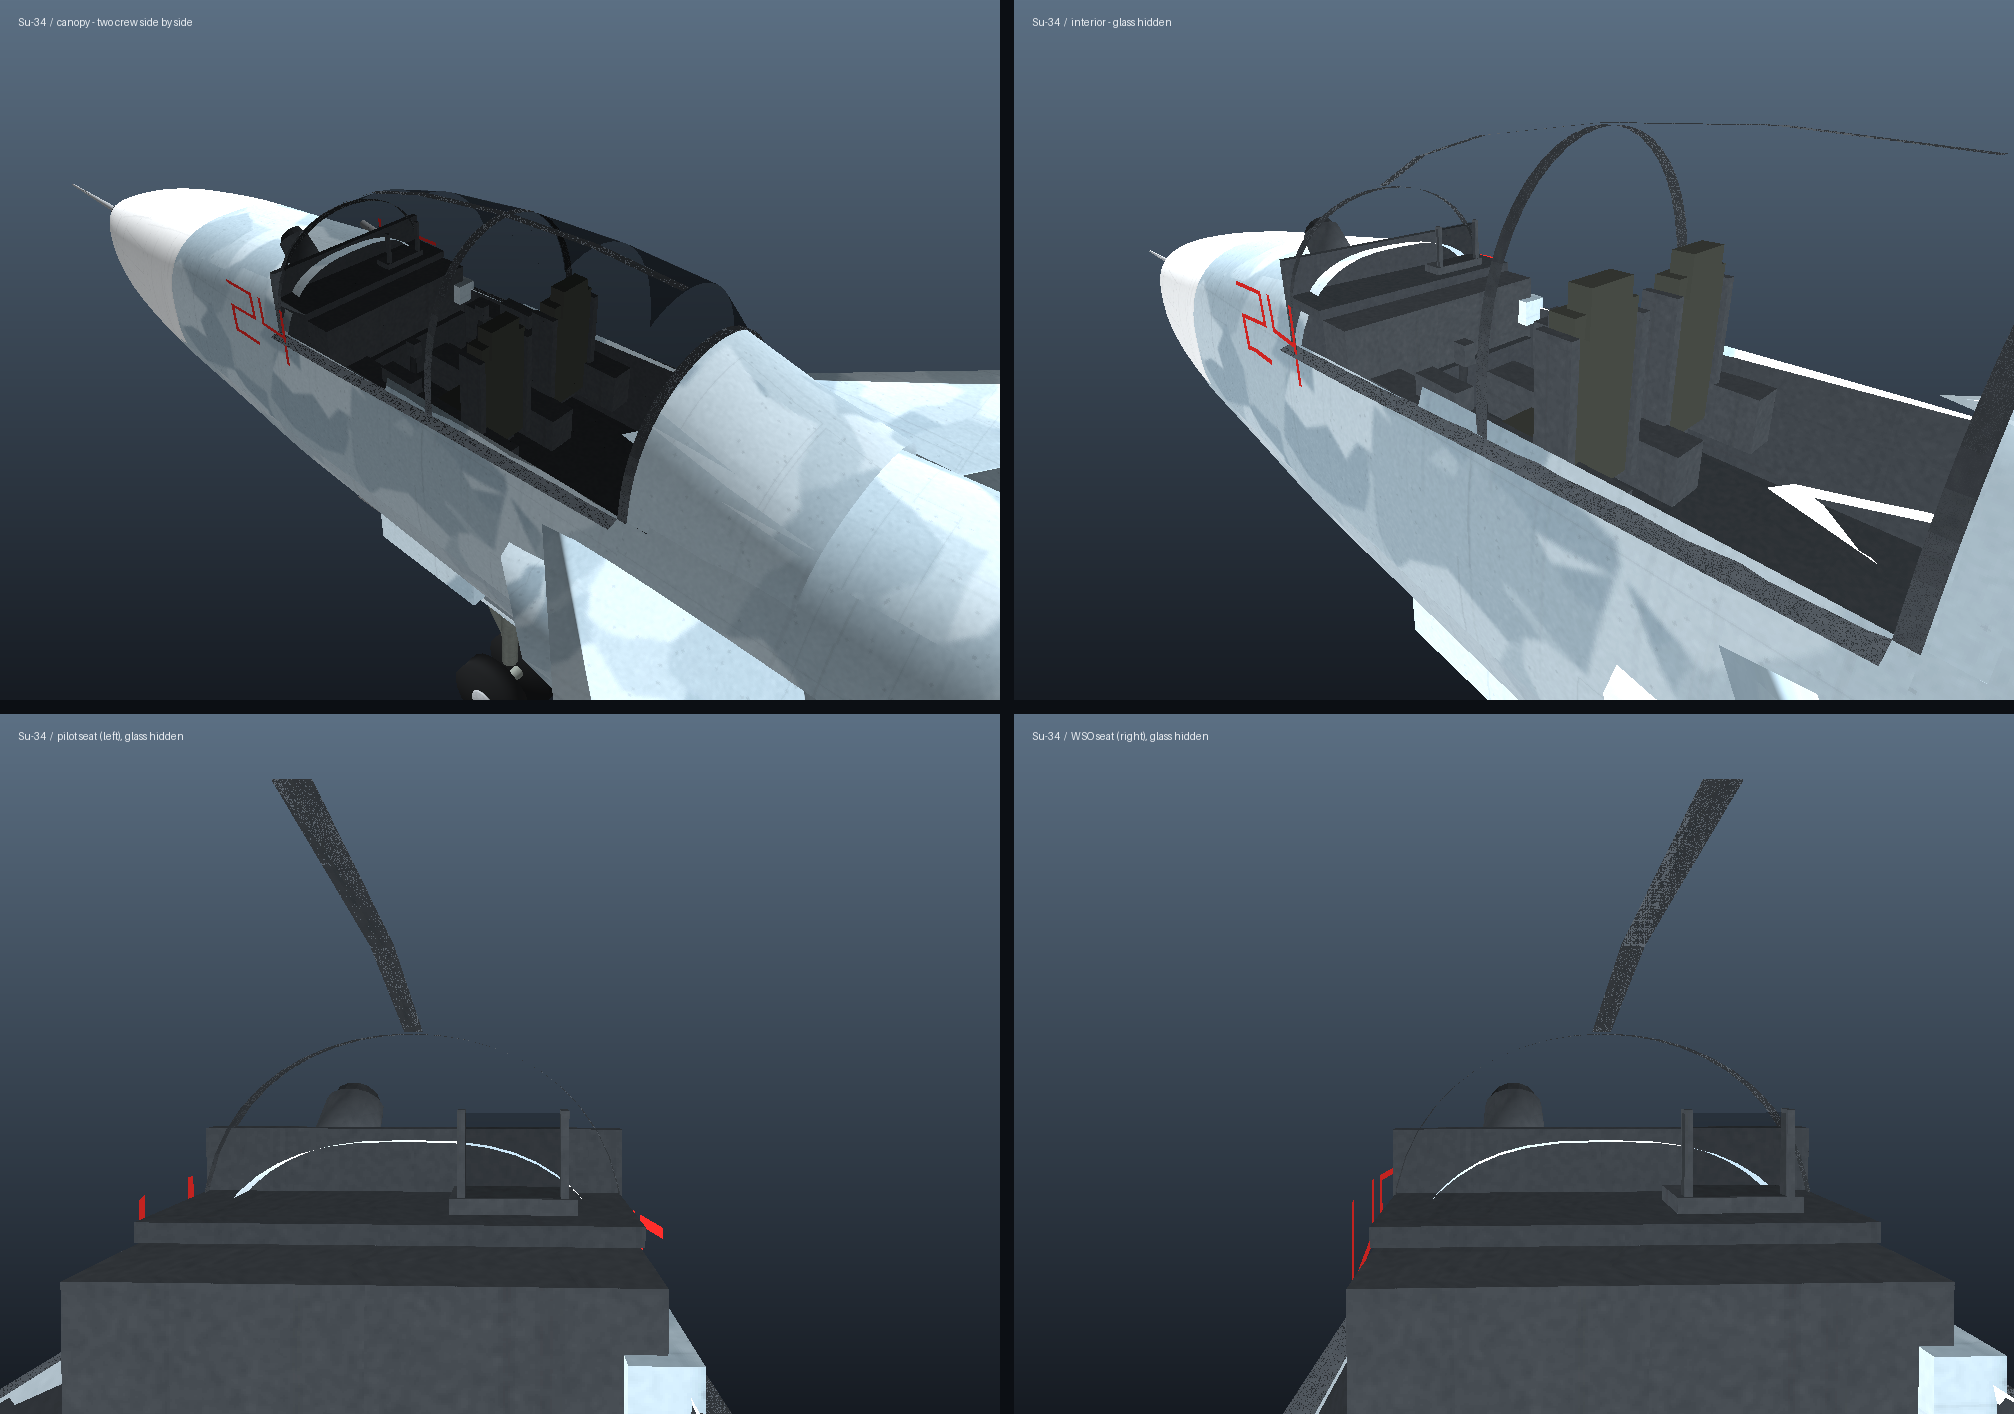
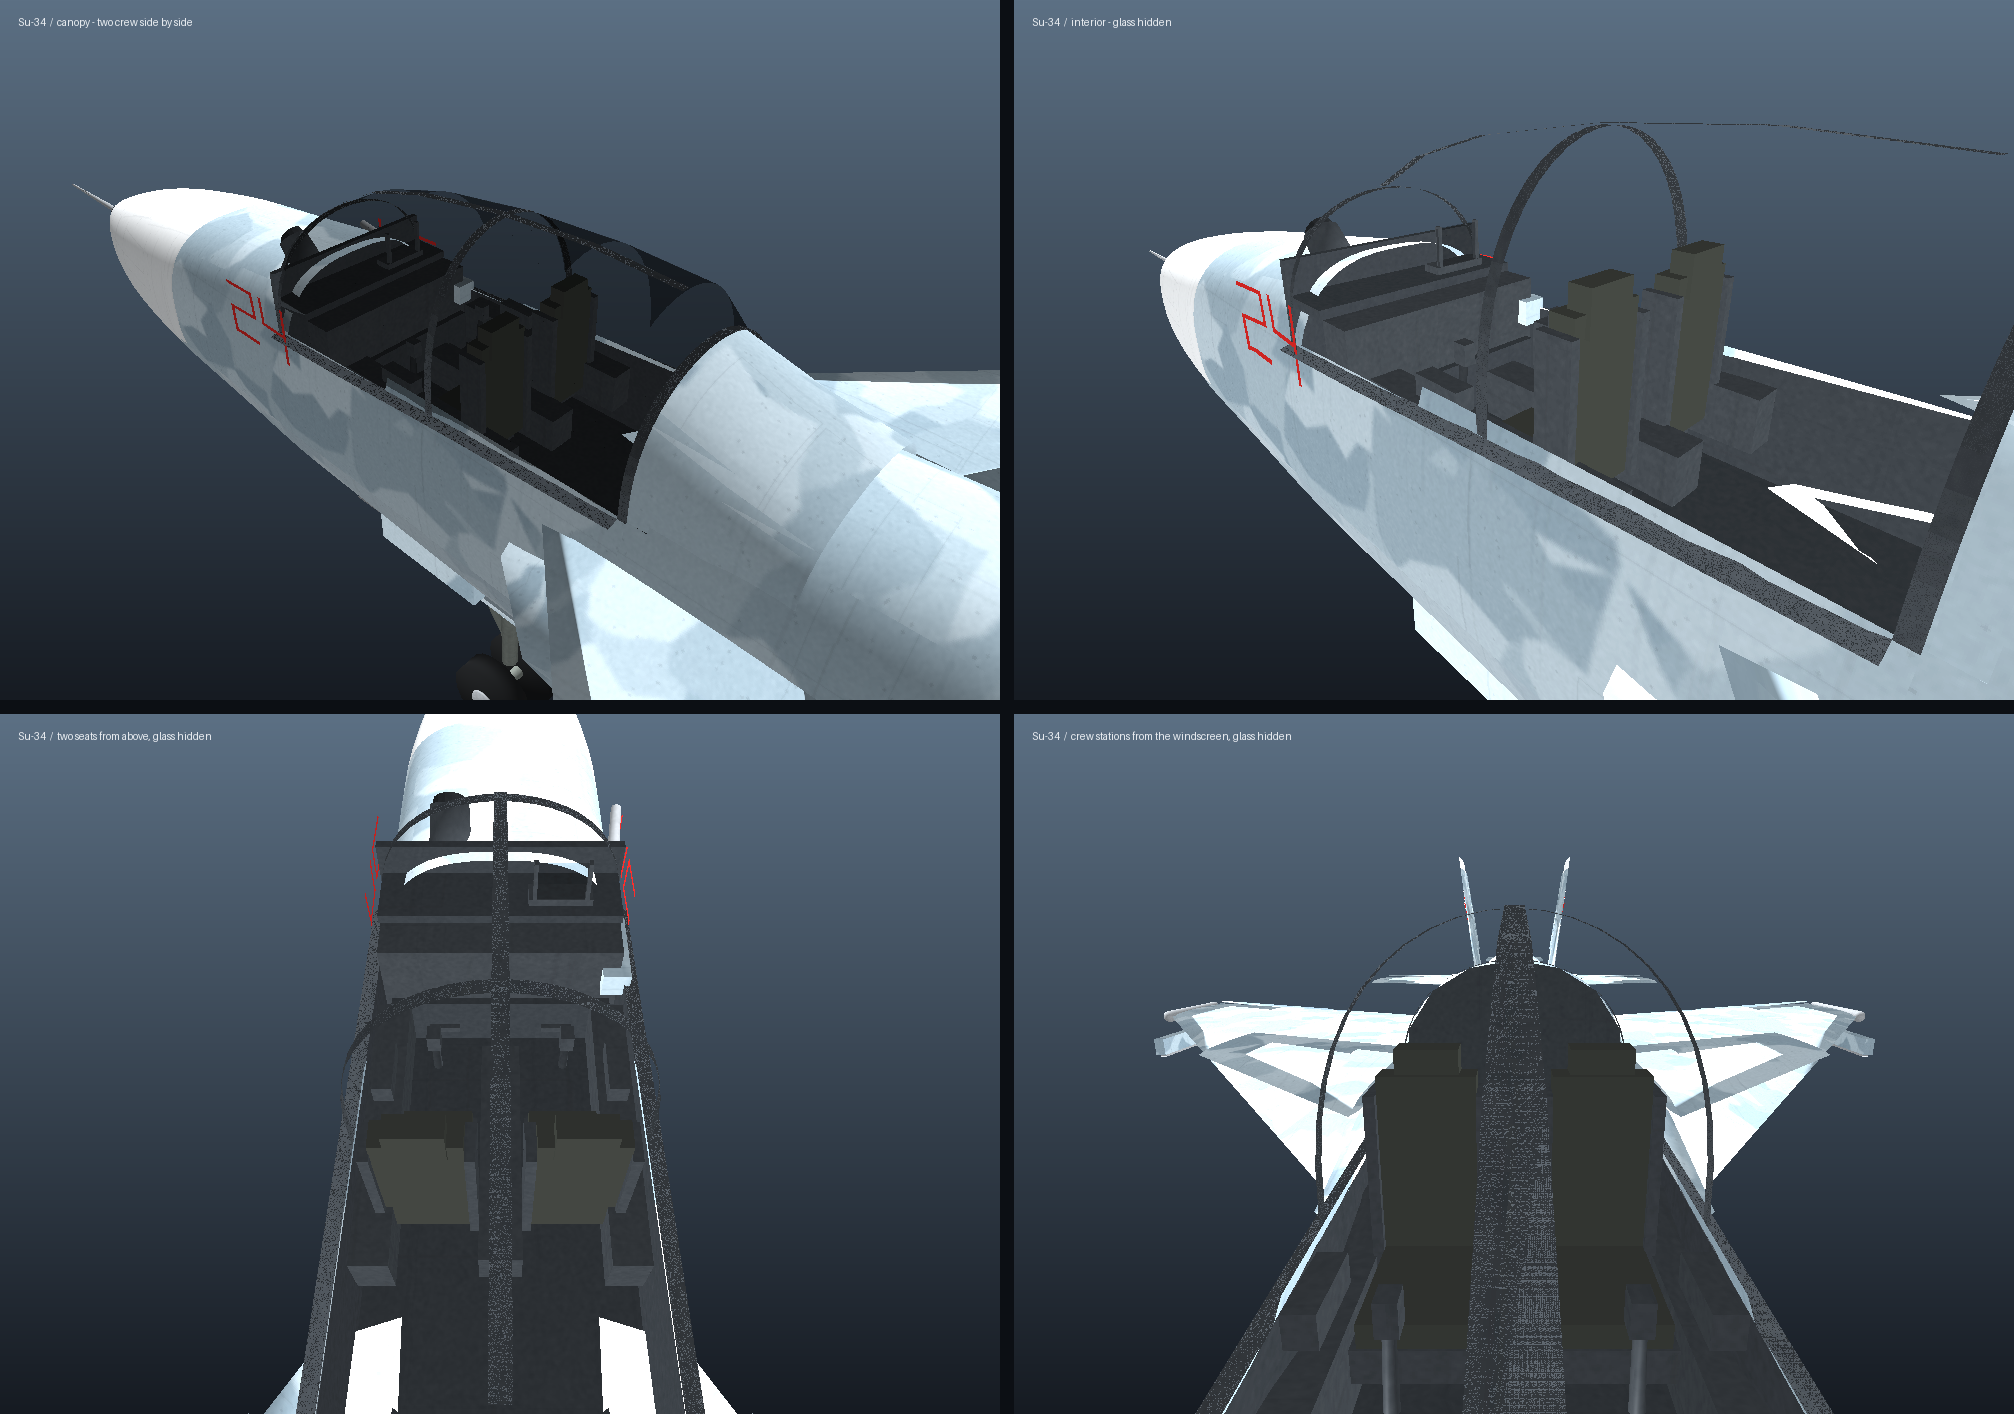
Cockpit sheet: replace the eye-level panels with top and windscreen views

diff --git a/tools/su34_model/render_preview.py b/tools/su34_model/render_preview.py
@@ -354,12 +354,12 @@ def cockpit_sheet(verts, uvs, normals, tris, mats) -> None:
         ("interior - glass hidden", True,
          Camera(np.array([1.9, 1.75, 4.9]), np.array([-0.05, 0.55, 6.9]),
                 np.array([0.0, 1.0, 0.0]), 58), 0.90),
-        ("pilot seat (left), glass hidden", True,
-         Camera(np.array([-0.30, 1.15, 6.40]), np.array([0.0, 1.00, 18.0]),
-                np.array([0.0, 1.0, 0.0]), 72), 0.85),
-        ("WSO seat (right), glass hidden", True,
-         Camera(np.array([0.30, 1.15, 6.40]), np.array([0.0, 1.00, 18.0]),
-                np.array([0.0, 1.0, 0.0]), 72), 0.85),
+        ("two seats from above, glass hidden", True,
+         Camera(np.array([0.0, 3.30, 4.95]), np.array([0.0, 0.60, 6.75]),
+                np.array([0.0, 0.0, 1.0]), 52), 0.85),
+        ("crew stations from the windscreen, glass hidden", True,
+         Camera(np.array([0.0, 1.55, 7.95]), np.array([0.0, 0.90, 5.40]),
+                np.array([0.0, 1.0, 0.0]), 66), 0.85),
     ]
     panels = []
     for label, drop_glass, cam, amb in shots:
